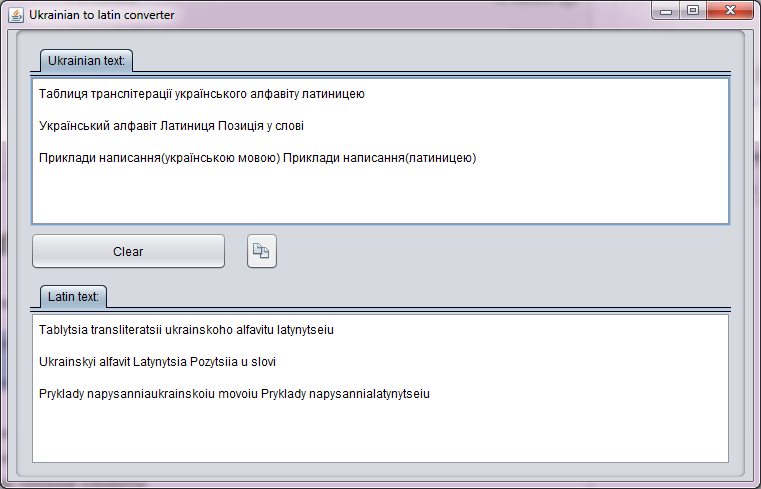
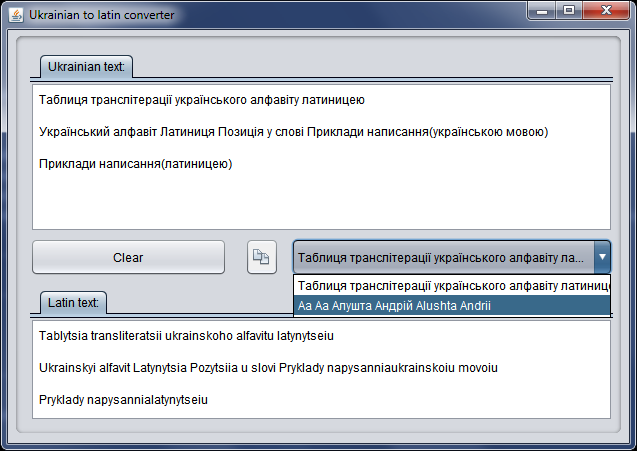
Added history support

diff --git a/src/main/java/com/github/ukrainiantolatin/UkrainiantolatinApp.java b/src/main/java/com/github/ukrainiantolatin/UkrainiantolatinApp.java
@@ -29,6 +29,8 @@ import java.io.FileNotFoundException;
 import java.io.FileOutputStream;
 import java.util.logging.Level;
 import java.util.logging.Logger;
+import javax.swing.DefaultComboBoxModel;
+import javax.swing.JComboBox;
 import javax.swing.UIManager;
 import javax.swing.UnsupportedLookAndFeelException;
 
@@ -52,6 +54,7 @@ public class UkrainiantolatinApp extends javax.swing.JFrame {
         String y = null;
         String height = null;
         String width = null;
+        DefaultComboBoxModel model = new DefaultComboBoxModel();
         try {
            d = new XMLDecoder(new BufferedInputStream(new FileInputStream("Ukrainiantolatin.xml")));
            jTextArea1.setText((String) d.readObject());
@@ -60,6 +63,7 @@ public class UkrainiantolatinApp extends javax.swing.JFrame {
            y = (String) d.readObject();
            height = (String) d.readObject();
            width = (String) d.readObject();
+           model = (DefaultComboBoxModel) d.readObject();
            d.close();
         } catch (Exception ex) {
             ex.getMessage();
@@ -77,6 +81,7 @@ public class UkrainiantolatinApp extends javax.swing.JFrame {
                     e.writeObject("" + getLocation().y);
                     e.writeObject("" + getSize().height);
                     e.writeObject("" + getSize().width);
+                    e.writeObject(jComboBox1.getModel());
                     e.close();
                 } catch (FileNotFoundException ex) {
                     Logger.getLogger(UkrainiantolatinApp.class.getName()).log(Level.SEVERE, null, ex);
@@ -97,6 +102,7 @@ public class UkrainiantolatinApp extends javax.swing.JFrame {
         if (width == null) {
             width = "" + getPreferredSize().width;
         }
+        jComboBox1.setModel(model);
         generateResult();
         setLocation(Integer.valueOf(x), Integer.valueOf(y));
         setSize(new java.awt.Dimension(Integer.valueOf(width), Integer.valueOf(height)));
@@ -120,6 +126,7 @@ public class UkrainiantolatinApp extends javax.swing.JFrame {
         jTextArea6 = new javax.swing.JTextArea();
         jButton3 = new javax.swing.JButton();
         jButton4 = new javax.swing.JButton();
+        jComboBox1 = new javax.swing.JComboBox();
 
         setDefaultCloseOperation(javax.swing.WindowConstants.EXIT_ON_CLOSE);
         setTitle("Ukrainian to latin converter");
@@ -164,6 +171,12 @@ public class UkrainiantolatinApp extends javax.swing.JFrame {
             }
         });
 
+        jComboBox1.addActionListener(new java.awt.event.ActionListener() {
+            public void actionPerformed(java.awt.event.ActionEvent evt) {
+                jComboBox1ActionPerformed(evt);
+            }
+        });
+
         org.jdesktop.layout.GroupLayout jPanel2Layout = new org.jdesktop.layout.GroupLayout(jPanel2);
         jPanel2.setLayout(jPanel2Layout);
         jPanel2Layout.setHorizontalGroup(
@@ -175,10 +188,11 @@ public class UkrainiantolatinApp extends javax.swing.JFrame {
                         .add(jButton3, org.jdesktop.layout.GroupLayout.PREFERRED_SIZE, 197, org.jdesktop.layout.GroupLayout.PREFERRED_SIZE)
                         .add(18, 18, 18)
                         .add(jButton4, org.jdesktop.layout.GroupLayout.PREFERRED_SIZE, 34, org.jdesktop.layout.GroupLayout.PREFERRED_SIZE)
-                        .add(0, 336, Short.MAX_VALUE))
+                        .addPreferredGap(org.jdesktop.layout.LayoutStyle.UNRELATED)
+                        .add(jComboBox1, 0, 336, Short.MAX_VALUE))
                     .add(jTabbedPane5)
                     .add(org.jdesktop.layout.GroupLayout.TRAILING, jTabbedPane1))
-                .addContainerGap())
+                .add(0, 0, 0))
         );
         jPanel2Layout.setVerticalGroup(
             jPanel2Layout.createParallelGroup(org.jdesktop.layout.GroupLayout.LEADING)
@@ -188,9 +202,10 @@ public class UkrainiantolatinApp extends javax.swing.JFrame {
                 .addPreferredGap(org.jdesktop.layout.LayoutStyle.RELATED)
                 .add(jPanel2Layout.createParallelGroup(org.jdesktop.layout.GroupLayout.LEADING, false)
                     .add(jButton4, org.jdesktop.layout.GroupLayout.DEFAULT_SIZE, org.jdesktop.layout.GroupLayout.DEFAULT_SIZE, Short.MAX_VALUE)
-                    .add(jButton3, org.jdesktop.layout.GroupLayout.DEFAULT_SIZE, org.jdesktop.layout.GroupLayout.DEFAULT_SIZE, Short.MAX_VALUE))
+                    .add(jButton3, org.jdesktop.layout.GroupLayout.DEFAULT_SIZE, org.jdesktop.layout.GroupLayout.DEFAULT_SIZE, Short.MAX_VALUE)
+                    .add(jComboBox1))
                 .addPreferredGap(org.jdesktop.layout.LayoutStyle.UNRELATED)
-                .add(jTabbedPane5, org.jdesktop.layout.GroupLayout.DEFAULT_SIZE, 164, Short.MAX_VALUE)
+                .add(jTabbedPane5, org.jdesktop.layout.GroupLayout.DEFAULT_SIZE, 142, Short.MAX_VALUE)
                 .addContainerGap())
         );
 
@@ -206,8 +221,9 @@ public class UkrainiantolatinApp extends javax.swing.JFrame {
         layout.setVerticalGroup(
             layout.createParallelGroup(org.jdesktop.layout.GroupLayout.LEADING)
             .add(layout.createSequentialGroup()
-                .add(jPanel2, org.jdesktop.layout.GroupLayout.DEFAULT_SIZE, 423, Short.MAX_VALUE)
-                .add(0, 0, 0))
+                .addContainerGap()
+                .add(jPanel2, org.jdesktop.layout.GroupLayout.DEFAULT_SIZE, 401, Short.MAX_VALUE)
+                .addContainerGap())
         );
 
         pack();
@@ -218,6 +234,12 @@ public class UkrainiantolatinApp extends javax.swing.JFrame {
     }//GEN-LAST:event_jTextArea1KeyReleased
 
     private void jButton3ActionPerformed(java.awt.event.ActionEvent evt) {//GEN-FIRST:event_jButton3ActionPerformed
+        if (!jTextArea1.getText().isEmpty()) {
+            if (jComboBox1.getModel().getSize() > 20) {
+                ((DefaultComboBoxModel) jComboBox1.getModel()).removeElementAt(0);
+            }
+            ((DefaultComboBoxModel) jComboBox1.getModel()).addElement(jTextArea1.getText());
+        }
         jTextArea1.setText("");
         jTextArea6.setText("");
     }//GEN-LAST:event_jButton3ActionPerformed
@@ -226,6 +248,11 @@ public class UkrainiantolatinApp extends javax.swing.JFrame {
         StringSelection ss = new StringSelection(jTextArea6.getText());
         Toolkit.getDefaultToolkit().getSystemClipboard().setContents(ss, null);
     }//GEN-LAST:event_jButton4ActionPerformed
+
+    private void jComboBox1ActionPerformed(java.awt.event.ActionEvent evt) {//GEN-FIRST:event_jComboBox1ActionPerformed
+        jTextArea1.setText(((JComboBox) evt.getSource()).getModel().getSelectedItem().toString());
+        generateResult();
+    }//GEN-LAST:event_jComboBox1ActionPerformed
 
     private static void setLookAndFeel()
         throws ClassNotFoundException, InstantiationException, IllegalAccessException, UnsupportedLookAndFeelException
@@ -265,6 +292,7 @@ public class UkrainiantolatinApp extends javax.swing.JFrame {
     // Variables declaration - do not modify//GEN-BEGIN:variables
     private javax.swing.JButton jButton3;
     private javax.swing.JButton jButton4;
+    private javax.swing.JComboBox jComboBox1;
     private javax.swing.JPanel jPanel2;
     private javax.swing.JScrollPane jScrollPane3;
     private javax.swing.JScrollPane jScrollPane6;

diff --git a/src/main/python/UkrainianToLatin.py b/src/main/python/UkrainianToLatin.py
@@ -51,38 +51,38 @@ class UkrainianToLatin:
     LENGTH_8 = 8
 
     Convert = {
-        "AA": u"Аа",
-        "BB": u"Бб",
-        "VV": u"Вв",
-        "HH": u"Гг",
-        "GG": u"Ґґ",
-        "DD": u"Дд",
-        "EE": u"Ее",
-        "YeIe": u"Єє",
-        "ZhZh": u"Жж",
-        "ZZ": u"Зз",
-        "YY": u"Ии",
-        "II": u"Іі",
-        "YiI": u"Її",
-        "YI": u"Йй",
-        "KK": u"Кк",
-        "LL": u"Лл",
-        "MM": u"Мм",
-        "NN": u"Нн",
-        "OO": u"Оо",
-        "PP": u"Пп",
-        "RR": u"Рр",
-        "SS": u"Сс",
-        "TT": u"Тт",
-        "UU": u"Уу",
-        "FF": u"Фф",
-        "KhKh": u"Хх",
-        "TsTs": u"Цц",
-        "ChCh": u"Чч",
-        "ShSh": u"Шш",
-        "ShchShch": u"Щщ",
-        "YuIu": u"Юю",
-        "YaIa": u"Яя"
+        "AA": "Аа",
+        "BB": "Бб",
+        "VV": "Вв",
+        "HH": "Гг",
+        "GG": "Ґґ",
+        "DD": "Дд",
+        "EE": "Ее",
+        "YeIe": "Єє",
+        "ZhZh": "Жж",
+        "ZZ": "Зз",
+        "YY": "Ии",
+        "II": "Іі",
+        "YiI": "Її",
+        "YI": "Йй",
+        "KK": "Кк",
+        "LL": "Лл",
+        "MM": "Мм",
+        "NN": "Нн",
+        "OO": "Оо",
+        "PP": "Пп",
+        "RR": "Рр",
+        "SS": "Сс",
+        "TT": "Тт",
+        "UU": "Уу",
+        "FF": "Фф",
+        "KhKh": "Хх",
+        "TsTs": "Цц",
+        "ChCh": "Чч",
+        "ShSh": "Шш",
+        "ShchShch": "Щщ",
+        "YuIu": "Юю",
+        "YaIa": "Яя"
     }
 
     class ConvertCase:
@@ -100,13 +100,14 @@ class UkrainianToLatin:
     def __init__():
         UkrainianToLatin.cyrToLat = {};
         for key, value in UkrainianToLatin.Convert.items():
+            value = value.encode('utf-8')
             print ("key - " + key, ", value - " + value + ", " + value[UkrainianToLatin.INDEX_0 : UkrainianToLatin.INDEX_1])
-            UkrainianToLatin.cyrToLat[value.encode('utf-8')[UkrainianToLatin.INDEX_0 : UkrainianToLatin.INDEX_1]] = UkrainianToLatin.ConvertCase(key, False)
-            UkrainianToLatin.cyrToLat[value.encode('utf-8')[UkrainianToLatin.INDEX_1 : UkrainianToLatin.INDEX_2]] = UkrainianToLatin.ConvertCase(key, True)
+            UkrainianToLatin.cyrToLat[value[UkrainianToLatin.INDEX_0 : UkrainianToLatin.INDEX_1]] = UkrainianToLatin.ConvertCase(key, False)
+            UkrainianToLatin.cyrToLat[value[UkrainianToLatin.INDEX_1 : UkrainianToLatin.INDEX_2]] = UkrainianToLatin.ConvertCase(key, True)
             if key == "EE":
                 UkrainianToLatin.cyrToLat["Ё"] = UkrainianToLatin.ConvertCase(key, False)
                 UkrainianToLatin.cyrToLat["ё"] = UkrainianToLatin.ConvertCase(key, True)
-            print ("key - " + key)
+            print ("key - " + key, ", value - " + value.encode('utf-8'))
 
     @staticmethod
     def generateLat(name):
@@ -121,8 +122,8 @@ class UkrainianToLatin:
               nextChar = name[index + UkrainianToLatin.INDEX_1 : index + UkrainianToLatin.INDEX_2]
             if re.search("[-'’,]", curChar):
                 continue
-            print ("curChar = " + curChar);
-            if curChar == u"В":
+            print ("curChar = " + curChar + " - " + UkrainianToLatin.cyrToLat.get(curChar, "?"));
+            if curChar == "В":
                 print "Eq В"
             else:
                 print "Not eq В"
